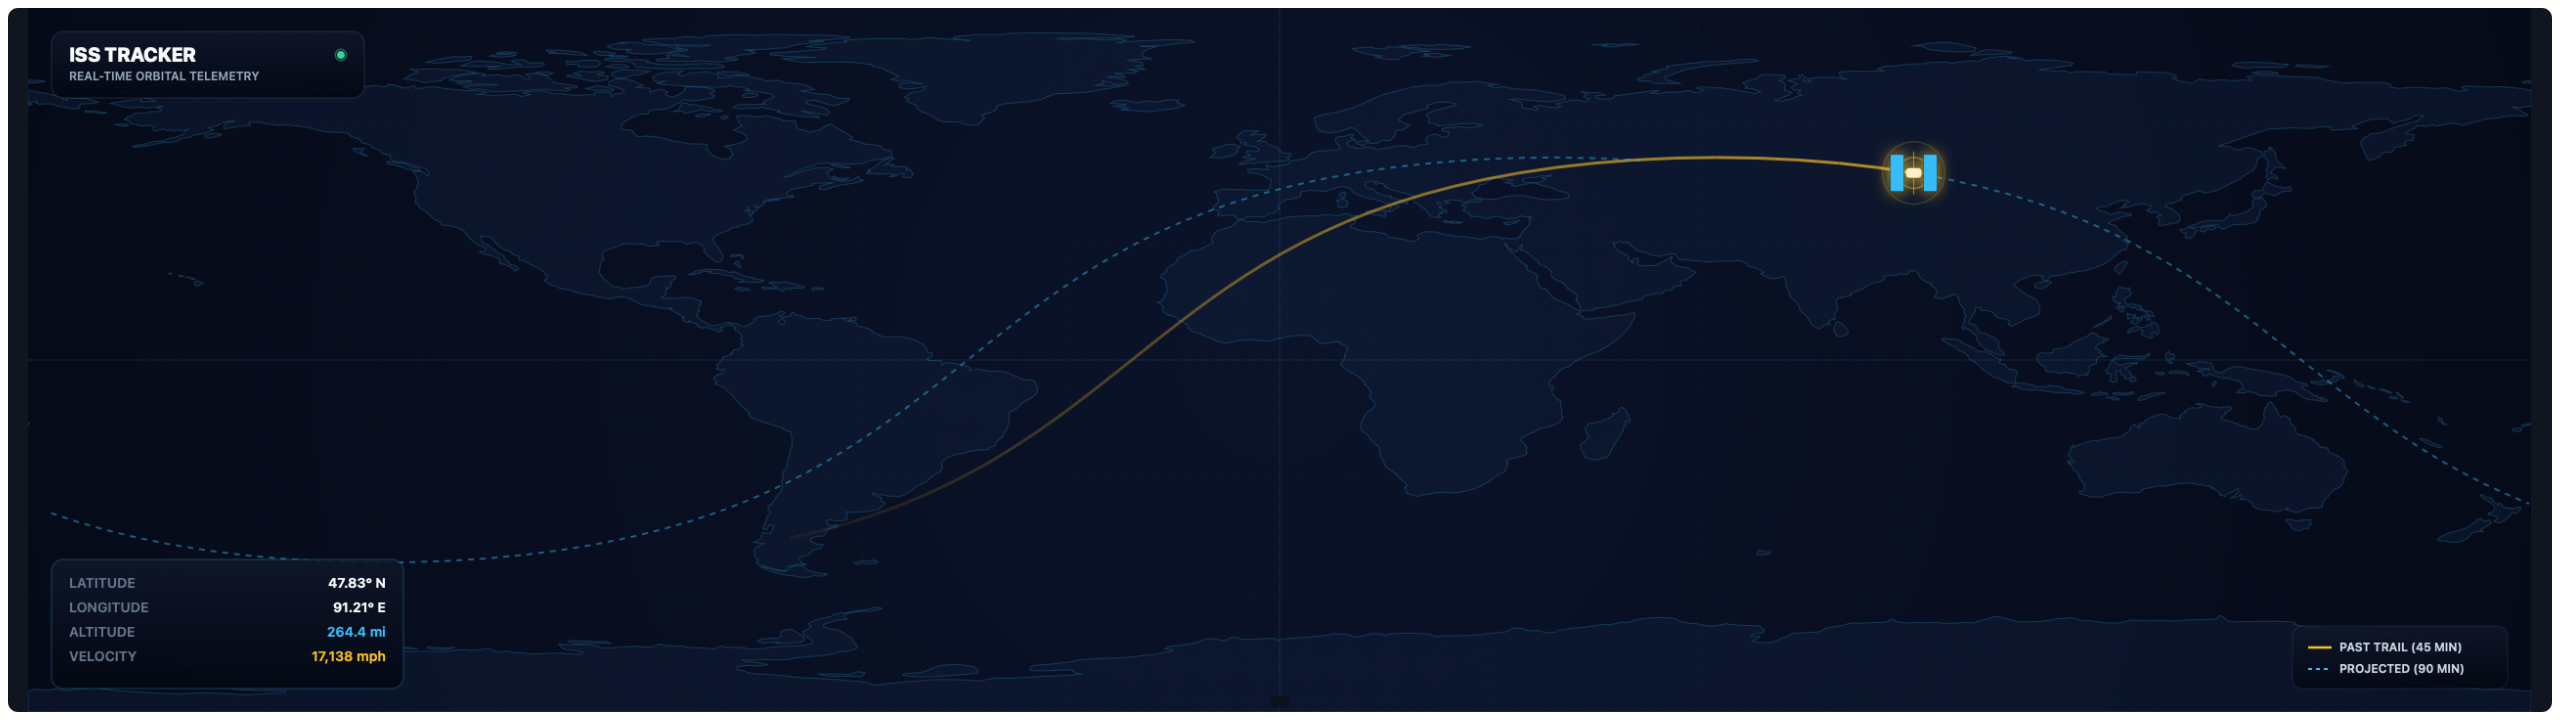
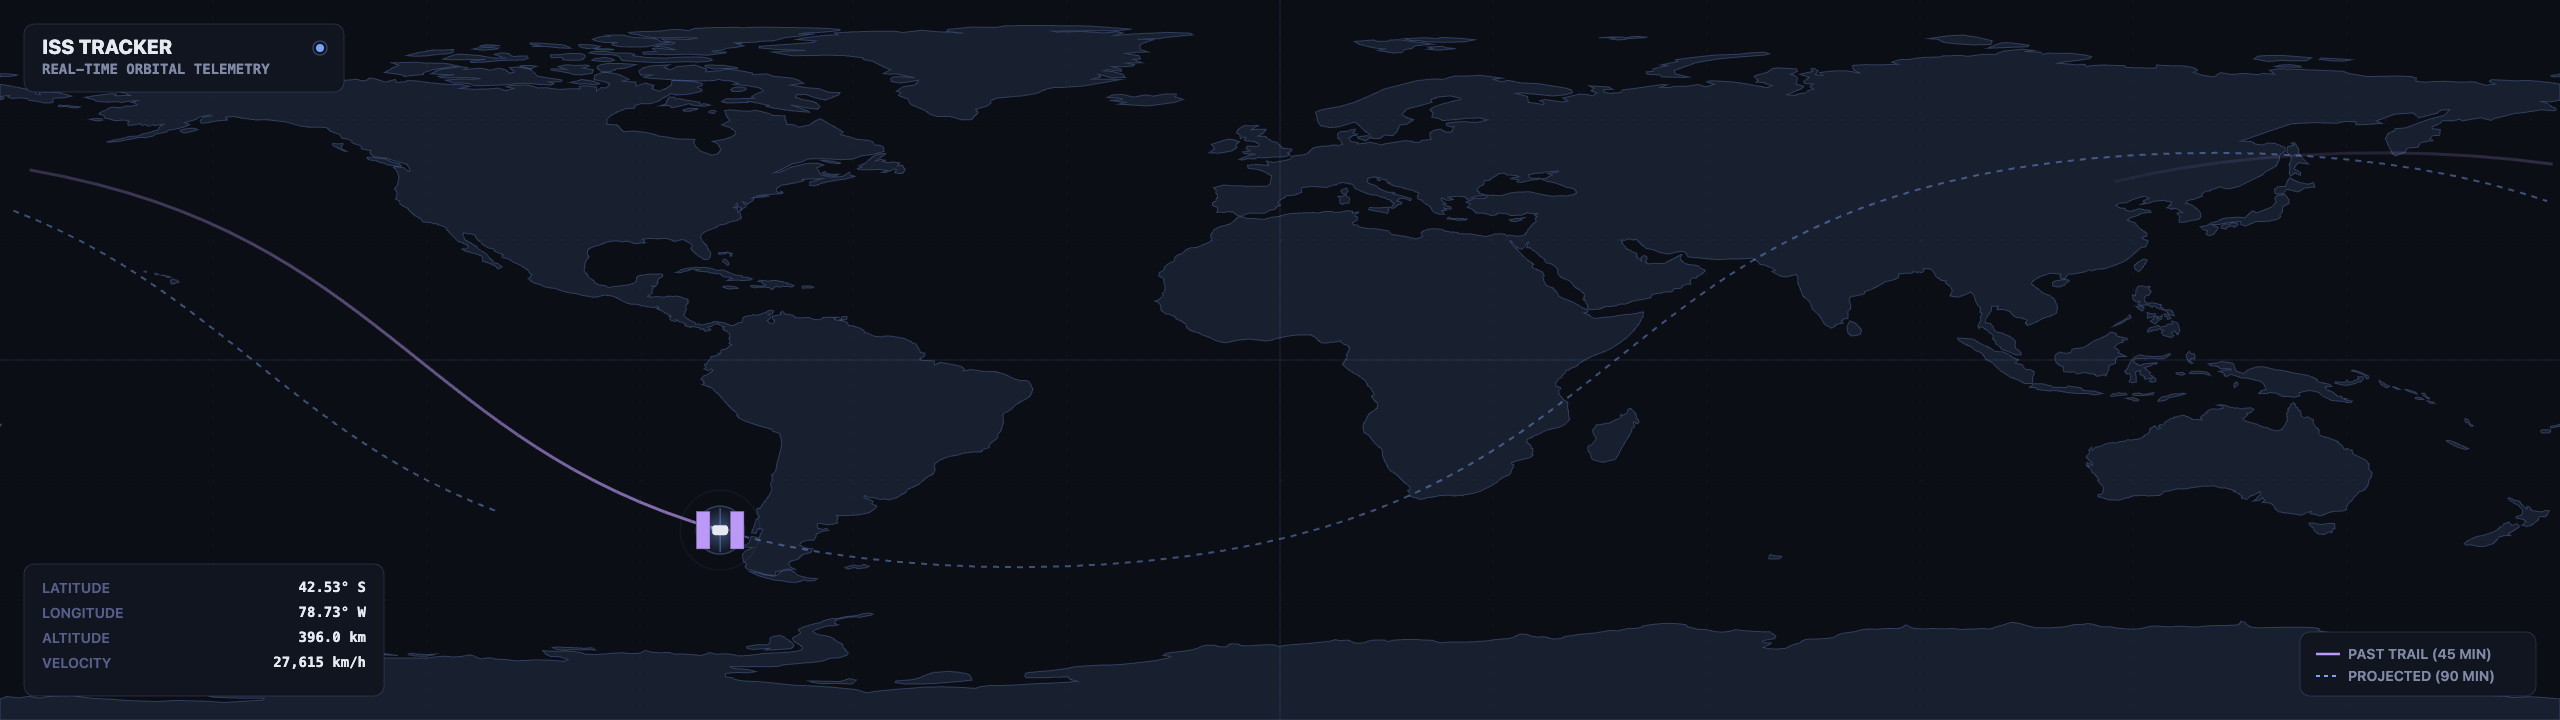
ISS Tracker: fix DESIGN.md violations found in critique
- Drop ctx.shadowBlur glow on the ISS marker; bake it into a radial
  gradient fill instead (cockpit is shadow-free by conviction).
- Replace glass-gradient title/HUD/legend panels with opaque flat fills
  (#11151f) and a hairline border — canopy translucency doesn't belong
  on the cockpit.
- Recolor everything off-token onto the Cockpit palette: land -> Panel
  Indigo tint (matching the sibling Day/Night widget), trail -> Panel
  Violet, projection -> Panel Indigo, marker wings -> Panel Violet,
  marker body/HUD values -> the documented text/dim tokens. No stock
  Tailwind hex remains.
- Switch HUD readouts and the status subtitle to SF Mono (Mono Numerals
  Rule); HUD labels stay sans per the same rule.
- Bump status/legend text from 12px to 14px (Fourteen-Pixel Floor Rule).
- Standardize all three panels to the cockpit's 10px cell radius.
- Fix the status dot lying about connection state: it now tracks the
  actual TLE fetch (indigo live / amber stale-but-showing-last-known
  / solid red failed-no-data-ever) instead of always pulsing green,
  and the title box shows "CONNECTING..." before the first fetch
  resolves instead of rendering silently blank.
- Fix body background/font-family drift flagged by the design hook
  (#02040a -> #0b0e14, SF Pro Display -> the documented UI stack).
- Refresh iss.png to the new look.

diff --git a/com.vardek.iss/index.html b/com.vardek.iss/index.html
@@ -7,8 +7,8 @@
     margin: 0;
     height: 100%;
     overflow: hidden;
-    background: #02040a;
-    font-family: -apple-system, BlinkMacSystemFont, 'SF Pro Display', 'Segoe UI', Roboto, sans-serif;
+    background: #0b0e14;
+    font-family: -apple-system, BlinkMacSystemFont, 'Helvetica Neue', sans-serif;
   }
   #map { display: block; width: 100vw; height: 100vh; }
 </style>
@@ -49,18 +49,14 @@
   }
 
   function drawOcean() {
-    const grad = ctx.createRadialGradient(W / 2, H / 2, 100, W / 2, H / 2, W / 1.1);
-    grad.addColorStop(0, "#0b1329");
-    grad.addColorStop(0.6, "#060a17");
-    grad.addColorStop(1, "#02040a");
-    ctx.fillStyle = grad;
+    ctx.fillStyle = "#0b0e14";
     ctx.fillRect(0, 0, W, H);
   }
 
   function drawLand() {
     if (!cfg.showLand || !Array.isArray(globalThis.LAND)) return;
-    ctx.fillStyle = "rgba(15, 30, 58, 0.45)";
-    ctx.strokeStyle = "rgba(56, 189, 248, 0.22)";
+    ctx.fillStyle = "rgba(122,162,247,0.12)";
+    ctx.strokeStyle = "rgba(122,162,247,0.28)";
     ctx.lineWidth = 1;
 
     for (const ring of globalThis.LAND) {
@@ -76,7 +72,7 @@
   }
 
   function drawGraticule() {
-    ctx.strokeStyle = "rgba(56, 189, 248, 0.04)";
+    ctx.strokeStyle = "rgba(122,162,247,0.05)";
     ctx.lineWidth = 1;
     ctx.setLineDash([4, 12]);
 
@@ -91,7 +87,7 @@
     ctx.setLineDash([]);
 
     // Equator / Prime Meridian highlight
-    ctx.strokeStyle = "rgba(56, 189, 248, 0.12)";
+    ctx.strokeStyle = "rgba(122,162,247,0.14)";
     ctx.beginPath(); ctx.moveTo(0, H / 2); ctx.lineTo(W, H / 2); ctx.stroke();
     ctx.beginPath(); ctx.moveTo(W / 2, 0); ctx.lineTo(W / 2, H); ctx.stroke();
   }
@@ -107,7 +103,7 @@
       if (Math.abs(p1.x - p0.x) > W / 2) continue;
       const frac = i / (proj.length - 1);
 
-      ctx.strokeStyle = "rgba(251, 191, 36, " + (0.05 + 0.65 * frac) + ")";
+      ctx.strokeStyle = "rgba(187,154,247," + (0.05 + 0.65 * frac) + ")";
       ctx.lineWidth = 3;
       ctx.beginPath();
       ctx.moveTo(p0.x, p0.y);
@@ -122,7 +118,7 @@
     if (pts.length < 2) return;
 
     ctx.save();
-    ctx.strokeStyle = "rgba(56, 189, 248, 0.45)";
+    ctx.strokeStyle = "rgba(122,162,247,0.45)";
     ctx.lineWidth = 2;
     ctx.setLineDash([6, 6]);
     ctx.beginPath();
@@ -148,9 +144,7 @@
     if (!current) return;
     const p = project(current.lon, current.lat, W, H);
     const t = Date.now() / 1000;
-    const pulse = 0.5 + 0.5 * Math.sin(t * 3);
 
-    // Glowing Radar Target Reticle
     ctx.save();
 
     // Outer Pulsing Target Rings
@@ -160,33 +154,36 @@
       const alpha = (1 - phase) * 0.5;
       ctx.beginPath();
       ctx.arc(p.x, p.y, ringR, 0, 2 * Math.PI);
-      ctx.strokeStyle = "rgba(251, 191, 36, " + alpha + ")";
+      ctx.strokeStyle = "rgba(122,162,247," + alpha + ")";
       ctx.lineWidth = 1.5;
       ctx.stroke();
     }
 
     // Target Crosshair
-    ctx.strokeStyle = "rgba(251, 191, 36, 0.6)";
+    ctx.strokeStyle = "rgba(122,162,247,0.6)";
     ctx.lineWidth = 1;
     const cLen = 22;
     ctx.beginPath(); ctx.moveTo(p.x - cLen, p.y); ctx.lineTo(p.x + cLen, p.y); ctx.stroke();
     ctx.beginPath(); ctx.moveTo(p.x, p.y - cLen); ctx.lineTo(p.x, p.y + cLen); ctx.stroke();
 
-    // ISS Vehicle Model
-    ctx.shadowColor = "#fbbf24";
-    ctx.shadowBlur = 16;
+    // Baked radial glow instead of ctx.shadowBlur — the cockpit stays flat, no shadow API.
+    const glow = ctx.createRadialGradient(p.x, p.y, 0, p.x, p.y, 26);
+    glow.addColorStop(0, "rgba(122,162,247,0.45)");
+    glow.addColorStop(1, "rgba(122,162,247,0)");
+    ctx.fillStyle = glow;
+    ctx.beginPath(); ctx.arc(p.x, p.y, 26, 0, 2 * Math.PI); ctx.fill();
 
+    // ISS Vehicle Model
     const bodyW = 16, bodyH = 10;
-    ctx.fillStyle = "#ffffff";
+    ctx.fillStyle = "#e6e9ef";
     roundRect(p.x - bodyW / 2, p.y - bodyH / 2, bodyW, bodyH, 3);
     ctx.fill();
 
     // Solar Wings
-    ctx.fillStyle = "#38bdf8";
+    ctx.fillStyle = "#bb9af7";
     const wingW = 14, wingH = 38;
     ctx.fillRect(p.x - bodyW / 2 - wingW - 2, p.y - wingH / 2, wingW, wingH);
     ctx.fillRect(p.x + bodyW / 2 + 2, p.y - wingH / 2, wingW, wingH);
-    ctx.shadowBlur = 0;
 
     // Solar Wing Grids
     ctx.strokeStyle = "rgba(0, 0, 0, 0.4)";
@@ -197,54 +194,64 @@
     ctx.restore();
   }
 
+  // live: connected, telemetry flowing. stale: last-known position shown, fetch is
+  // currently failing. failed: no TLE has ever been obtained.
+  function liveState() {
+    if (!errorMsg) return "live";
+    return satrec ? "stale" : "failed";
+  }
+
   function drawTitle() {
     const boxX = 24, boxY = 24, boxW = 320, boxH = 68;
 
-    // Glass panel
-    const grad = ctx.createLinearGradient(boxX, boxY, boxX, boxY + boxH);
-    grad.addColorStop(0, "rgba(15, 23, 42, 0.85)");
-    grad.addColorStop(1, "rgba(3, 7, 18, 0.90)");
-
-    ctx.fillStyle = grad;
-    roundRect(boxX, boxY, boxW, boxH, 12);
+    ctx.fillStyle = "#11151f";
+    roundRect(boxX, boxY, boxW, boxH, 10);
     ctx.fill();
-    ctx.strokeStyle = "rgba(255, 255, 255, 0.08)";
-    ctx.lineWidth = 1.5;
-    roundRect(boxX, boxY, boxW, boxH, 12);
+    ctx.strokeStyle = "rgba(86,95,137,0.35)";
+    ctx.lineWidth = 1;
+    roundRect(boxX, boxY, boxW, boxH, 10);
     ctx.stroke();
 
     ctx.textAlign = "left";
     ctx.textBaseline = "middle";
 
     // Title text
-    ctx.font = "800 20px -apple-system, BlinkMacSystemFont, 'SF Pro Display', sans-serif";
-    ctx.fillStyle = "#f8fafc";
+    ctx.font = "800 20px -apple-system, BlinkMacSystemFont, 'Helvetica Neue', sans-serif";
+    ctx.fillStyle = "#e6e9ef";
     ctx.fillText("ISS TRACKER", boxX + 18, boxY + 24);
 
-    // Live Indicator Pulse
+    // Live Indicator Pulse — color/animation follow the actual connection state
+    // (Live Status Pill pattern: connected / reconnecting / failed), never a fixed color.
+    const state = liveState();
+    const stateColor = state === "live" ? "122,162,247" : state === "stale" ? "224,175,104" : "247,118,142";
     const liveX = boxX + boxW - 24, liveY = boxY + 24;
     const t = Date.now() / 1000;
-    const pulse = 0.5 + 0.5 * Math.sin(t * 3);
+    const pulse = state === "failed" ? 0 : 0.5 + 0.5 * Math.sin(t * 3);
 
     ctx.beginPath();
     ctx.arc(liveX, liveY, 4, 0, 2 * Math.PI);
-    ctx.fillStyle = "#34d399";
+    ctx.fillStyle = "rgb(" + stateColor + ")";
     ctx.fill();
 
-    ctx.beginPath();
-    ctx.arc(liveX, liveY, 4 + pulse * 4, 0, 2 * Math.PI);
-    ctx.strokeStyle = "rgba(52, 211, 153, " + (0.6 - pulse * 0.4) + ")";
-    ctx.lineWidth = 1.5;
-    ctx.stroke();
+    if (state !== "failed") {
+      ctx.beginPath();
+      ctx.arc(liveX, liveY, 4 + pulse * 4, 0, 2 * Math.PI);
+      ctx.strokeStyle = "rgba(" + stateColor + "," + (0.6 - pulse * 0.4) + ")";
+      ctx.lineWidth = 1.5;
+      ctx.stroke();
+    }
 
     // Subtitle / Status
-    ctx.font = "600 12px -apple-system, BlinkMacSystemFont, sans-serif";
-    ctx.fillStyle = "#94a3b8";
-    if (errorMsg) {
-      ctx.fillStyle = "#f87171";
-      ctx.fillText(errorMsg, boxX + 18, boxY + 46);
+    ctx.font = "600 14px ui-monospace, 'SF Mono', SFMono-Regular, Menlo, monospace";
+    if (state === "live") {
+      ctx.fillStyle = "#8089a6";
+      ctx.fillText(satrec ? "REAL-TIME ORBITAL TELEMETRY" : "CONNECTING…", boxX + 18, boxY + 46);
+    } else if (state === "stale") {
+      ctx.fillStyle = "#e0af68";
+      ctx.fillText("LAST KNOWN POSITION — " + errorMsg, boxX + 18, boxY + 46);
     } else {
-      ctx.fillText("REAL-TIME ORBITAL TELEMETRY", boxX + 18, boxY + 46);
+      ctx.fillStyle = "#f7768e";
+      ctx.fillText(errorMsg, boxX + 18, boxY + 46);
     }
   }
 
@@ -258,29 +265,27 @@
 
     const px = 24, py = H - 156, pw = 360, ph = 132;
 
-    const grad = ctx.createLinearGradient(px, py, px, py + ph);
-    grad.addColorStop(0, "rgba(15, 23, 42, 0.88)");
-    grad.addColorStop(1, "rgba(3, 7, 18, 0.94)");
-
-    ctx.fillStyle = grad;
-    roundRect(px, py, pw, ph, 12);
+    ctx.fillStyle = "#11151f";
+    roundRect(px, py, pw, ph, 10);
     ctx.fill();
-    ctx.strokeStyle = "rgba(56, 189, 248, 0.20)";
-    ctx.lineWidth = 1.5;
-    roundRect(px, py, pw, ph, 12);
+    ctx.strokeStyle = "rgba(86,95,137,0.35)";
+    ctx.lineWidth = 1;
+    roundRect(px, py, pw, ph, 10);
     ctx.stroke();
 
     const lx = px + 18, rx = px + pw - 18;
     let y = py + 24;
     const sp = 25;
-    ctx.font = "600 14px -apple-system, BlinkMacSystemFont, sans-serif";
 
-    function hudRow(label, value, valueColor) {
-      ctx.fillStyle = "#64748b";
+    function hudRow(label, value) {
+      ctx.font = "600 14px -apple-system, BlinkMacSystemFont, 'Helvetica Neue', sans-serif";
+      ctx.fillStyle = "#565f89";
       ctx.textAlign = "left";
       ctx.textBaseline = "middle";
       ctx.fillText(label, lx, y);
-      ctx.fillStyle = valueColor;
+      // The value updates every tick — Mono Numerals Rule.
+      ctx.font = "600 14px ui-monospace, 'SF Mono', SFMono-Regular, Menlo, monospace";
+      ctx.fillStyle = "#e6e9ef";
       ctx.textAlign = "right";
       ctx.fillText(value, rx, y);
       y += sp;
@@ -288,48 +293,44 @@
 
     const latDir = current.lat >= 0 ? "N" : "S";
     const lonDir = current.lon >= 0 ? "E" : "W";
-    hudRow("LATITUDE", Math.abs(current.lat).toFixed(2) + "° " + latDir, "#f8fafc");
-    hudRow("LONGITUDE", Math.abs(current.lon).toFixed(2) + "° " + lonDir, "#f8fafc");
-    hudRow("ALTITUDE", alt.toFixed(1) + " " + distUnit, "#38bdf8");
-    hudRow("VELOCITY", Math.round(vel).toLocaleString("en") + " " + velUnit, "#fbbf24");
+    hudRow("LATITUDE", Math.abs(current.lat).toFixed(2) + "° " + latDir);
+    hudRow("LONGITUDE", Math.abs(current.lon).toFixed(2) + "° " + lonDir);
+    hudRow("ALTITUDE", alt.toFixed(1) + " " + distUnit);
+    hudRow("VELOCITY", Math.round(vel).toLocaleString("en") + " " + velUnit);
   }
 
   function drawLegend() {
     if (!satrec) return;
-    const boxW = 220, boxH = 64;
+    const boxW = 236, boxH = 64;
     const lx = W - boxW - 24, ly = H - boxH - 24;
 
-    const grad = ctx.createLinearGradient(lx, ly, lx, ly + boxH);
-    grad.addColorStop(0, "rgba(15, 23, 42, 0.85)");
-    grad.addColorStop(1, "rgba(3, 7, 18, 0.90)");
-
-    ctx.fillStyle = grad;
+    ctx.fillStyle = "#11151f";
     roundRect(lx, ly, boxW, boxH, 10);
     ctx.fill();
-    ctx.strokeStyle = "rgba(255, 255, 255, 0.08)";
+    ctx.strokeStyle = "rgba(86,95,137,0.35)";
     ctx.lineWidth = 1;
     roundRect(lx, ly, boxW, boxH, 10);
     ctx.stroke();
 
-    ctx.font = "600 12px -apple-system, BlinkMacSystemFont, sans-serif";
+    ctx.font = "600 14px -apple-system, BlinkMacSystemFont, 'Helvetica Neue', sans-serif";
     ctx.textAlign = "left";
     ctx.textBaseline = "middle";
 
     if (cfg.showTrail) {
-      ctx.strokeStyle = "#fbbf24";
+      ctx.strokeStyle = "#bb9af7";
       ctx.lineWidth = 2.5;
       ctx.beginPath(); ctx.moveTo(lx + 16, ly + 22); ctx.lineTo(lx + 40, ly + 22); ctx.stroke();
-      ctx.fillStyle = "#cbd5e1";
+      ctx.fillStyle = "#8089a6";
       ctx.fillText("PAST TRAIL (45 MIN)", lx + 48, ly + 22);
     }
 
     if (cfg.showProjection) {
-      ctx.strokeStyle = "#38bdf8";
+      ctx.strokeStyle = "#7aa2f7";
       ctx.lineWidth = 2;
       ctx.setLineDash([4, 4]);
       ctx.beginPath(); ctx.moveTo(lx + 16, ly + 44); ctx.lineTo(lx + 40, ly + 44); ctx.stroke();
       ctx.setLineDash([]);
-      ctx.fillStyle = "#cbd5e1";
+      ctx.fillStyle = "#8089a6";
       ctx.fillText("PROJECTED (90 MIN)", lx + 48, ly + 44);
     }
   }

diff --git a/com.vardek.iss/README.md b/com.vardek.iss/README.md
@@ -11,13 +11,16 @@ computed locally with [satellite.js](https://github.com/shashwatak/satellite-js)
 - **Satellite icon** marks the current subpoint — a small central body with
   two solar-panel wings and a soft glow.
 - **Trail** (optional) traces the past ~45 minutes of ground track, solid
-  amber.
+  violet.
 - **Projection** (optional) traces the next ~90 minutes of ground track,
-  dashed light blue.
+  dashed indigo.
 - Both paths split into separate segments at the ±180° seam instead of
   drawing a line across the map.
 - Coastlines are optional and drawn from bundled Natural Earth data (no
   network).
+- The **status dot** tracks the actual TLE fetch: indigo while live,
+  amber if a refresh fails but a last-known position is still shown, red
+  if no position has ever been obtained.
 
 ![ISS Tracker widget](iss.png)
 
